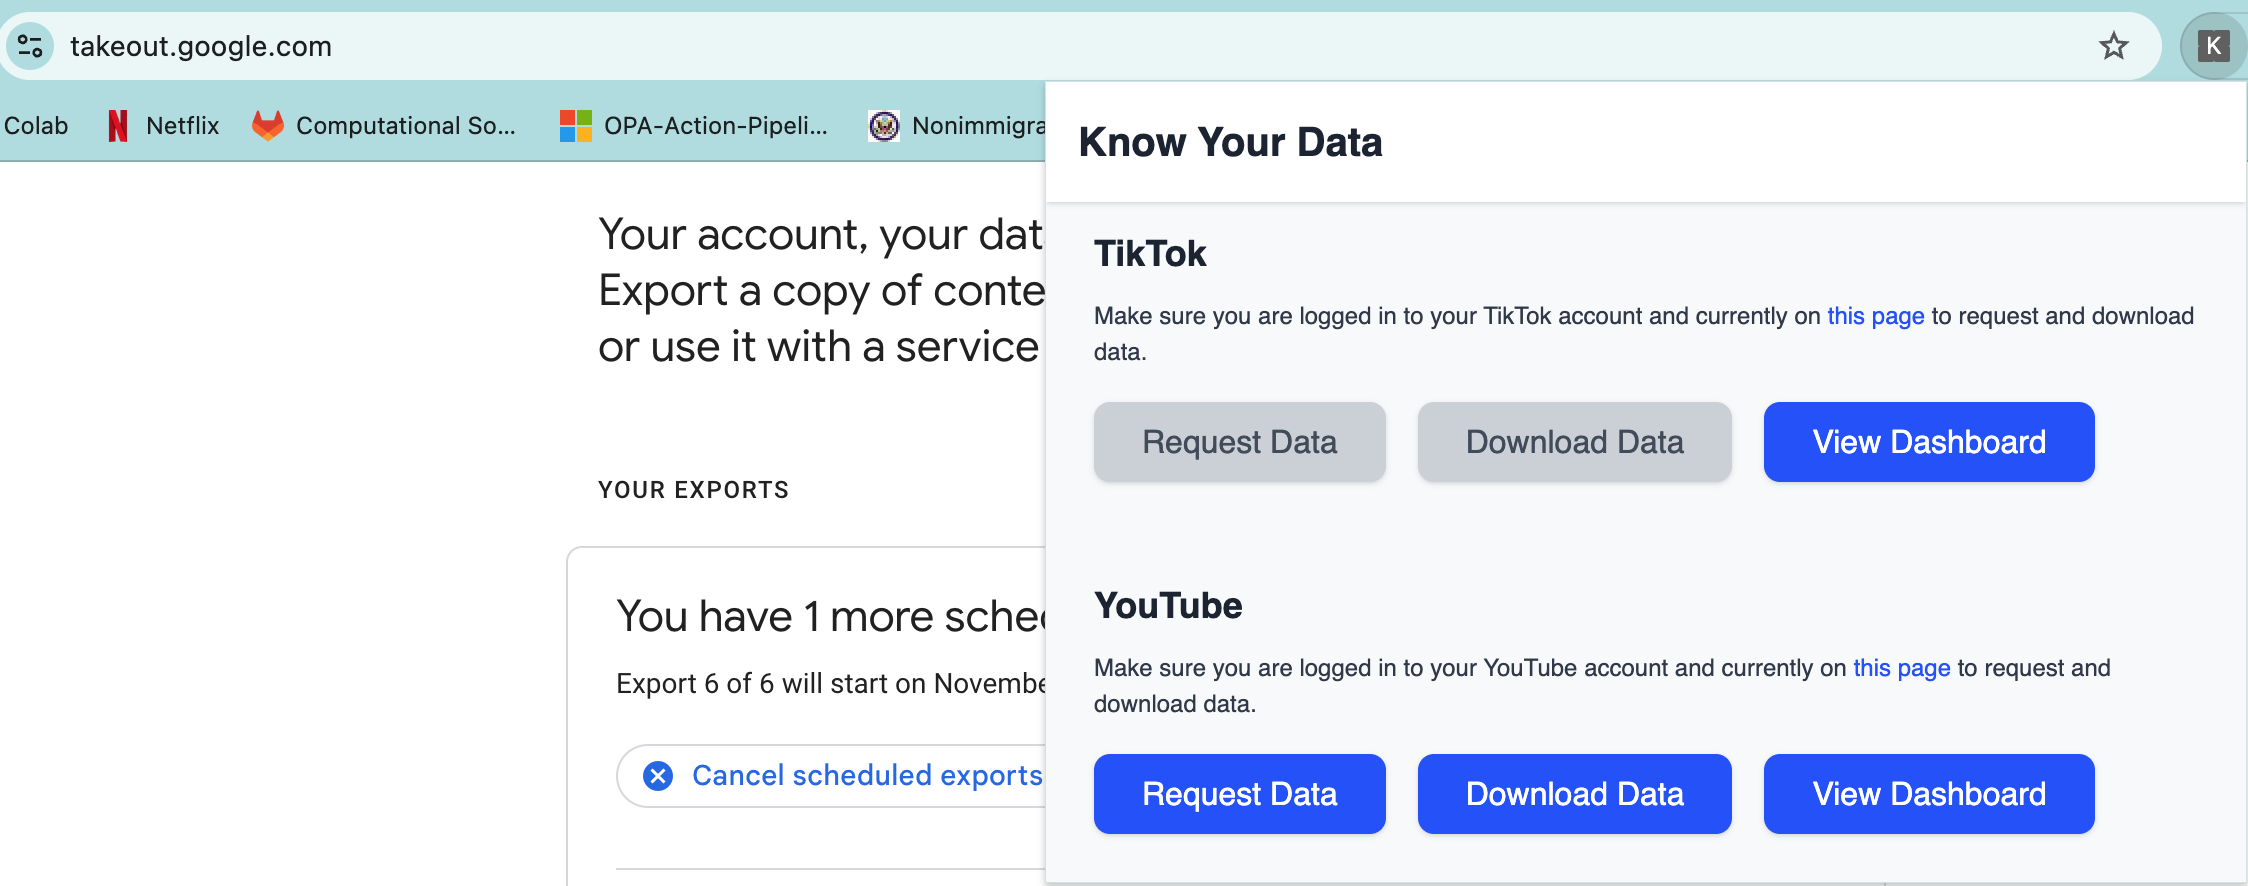
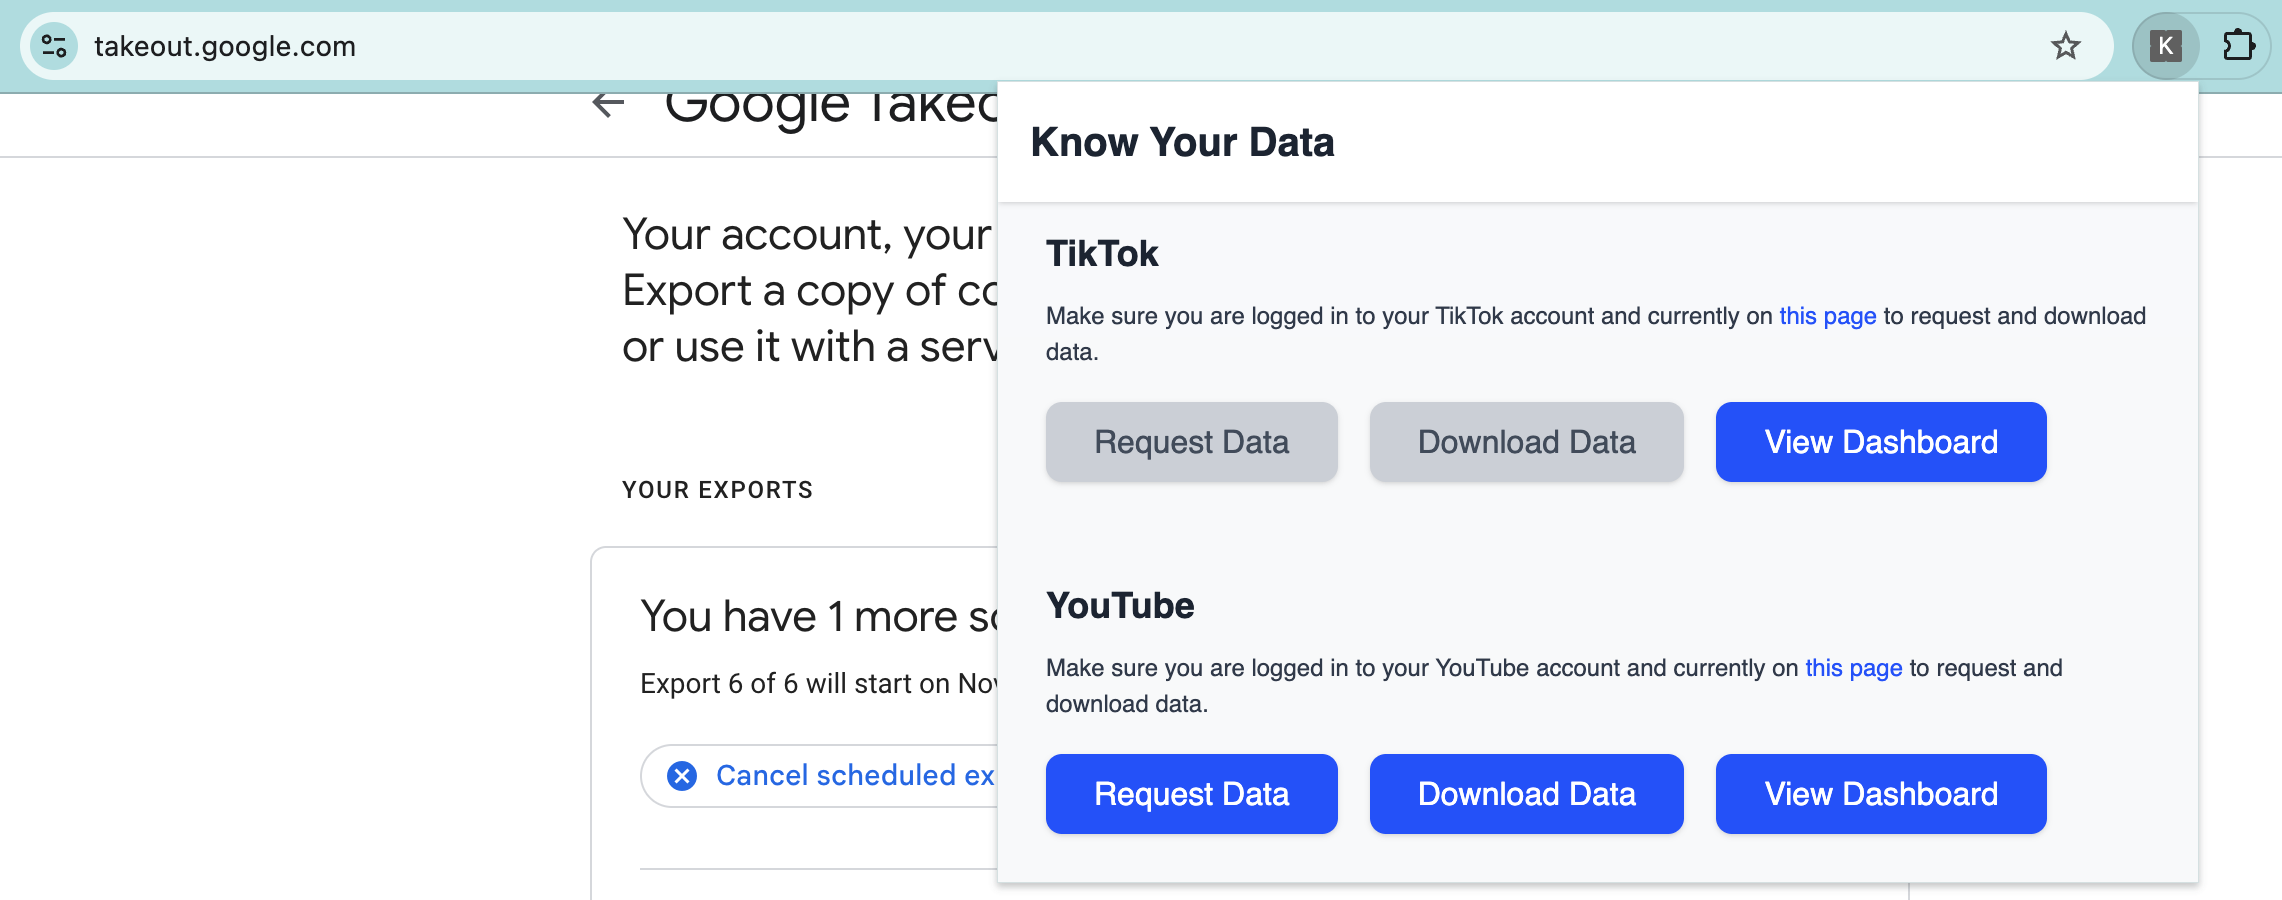
Update Readme

diff --git a/EXTENSION/README.md b/EXTENSION/README.md
@@ -63,12 +63,9 @@ Your React app should now be loaded as a Chrome extension!
 
 1. **Log in** to your respective account and make sure you are on the **correct page** as directed in the extension. 
    Refer to the figure below for guidance.
-
    ![Request and Download option](Images/request.png)
-
 2. **Click the “Request Data” button.**  
    Do **not** click anything else unless prompted by the extension or if authentication is required.
-
 3. Once your data request is complete, follow the **same process** for **downloading** the data.
 
 ---
@@ -78,11 +75,11 @@ Your React app should now be loaded as a Chrome extension!
 1. After downloading, locate the **DDP (Data Download Package)** file — this will be a `.zip` file.  
 2. Click on the **“View Dashboard”** button in the extension interface.  
 3. **Upload the downloaded `.zip` file** as shown in the figure below.
-
    ![Upload DDP File](Images/Upload_ddp.png)
-
 4. The dashboard will automatically process and visualize your data as shown below for the YouTube browsing history.
-
    ![Dashboard View](Images/dashboard_view.png)
 
+**Figure : ① shows how YouTube currently shares watch history. ② illustrates how our approach addresses some of the
+transparency expectations of our survey participants. ③, ④, and ⑤ depict our proposed concise, raw data, and transparent
+views respectively.**
 
